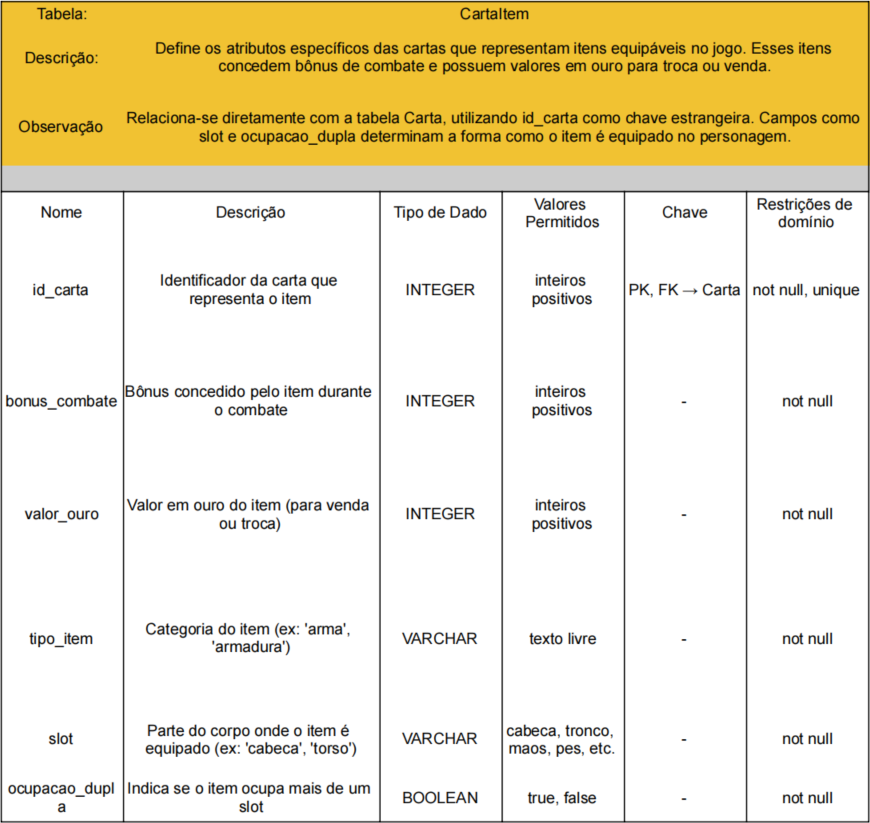
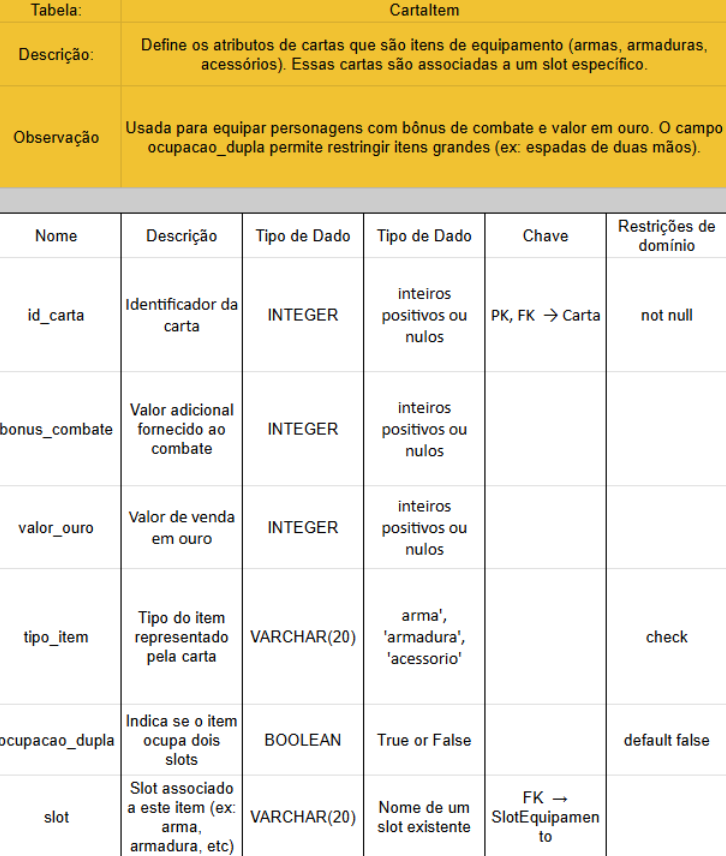
feat: novas correções no dicionário

diff --git a/docs/modulo01/dicionario.md b/docs/modulo01/dicionario.md
@@ -38,6 +38,9 @@ A seguir, cada entidade será documentada em uma tabela com suas respectivas car
 ### Tabela: **Carta**
 ![Tabela Carta](../assets/Carta.png)
 
+### Tabela: **SlotEquipamento**
+![Tabela Combate](../assets/SlotEquipamento.png)
+
 ### Tabela: **CartaPartida**
 ![Tabela CartaPartida](../assets/CartaPartida.png)
 
@@ -107,10 +110,12 @@ A seguir, cada entidade será documentada em uma tabela com suas respectivas car
 ### Tabela: **Combate**
 ![Tabela Combate](../assets/Combate.png)
 
+
+
 ## Histórico de Versão
 
 | Data       | Descrição                              | Autor                                                                 |
 |------------|----------------------------------------|-----------------------------------------------------------------------|
 | 25/04/2025 | Criação do artefato                    | [Breno Fernandes](https://github.com/Brenofrds)                      |
-| 02/05/2025 | Colaboração na construção do dicionário de dados |[Breno Fernandes](https://github.com/Brenofrds),[Maria Clara Sena](https://github.com/mclarasena), [Ana Luiza](https://github.com/luluaroeira), [Mylena Mendonça](https://github.com/MylenaTrindade) |
-| 11/06/2025 | Correções  do dicionário                | [Maria Clara](https://github.com/mclarasena), [Mylena Mendonça](https://github.com/MylenaTrindade) 
+| 02/05/2025 | Colaboração na construção do dicionário de dados |[Breno Fernandes](https://github.com/Brenofrds),[Maria Clara Sena](https://github.com/mclarasenaa), [Ana Luiza](https://github.com/luluaroeira), [Mylena Mendonça](https://github.com/MylenaTrindade) |
+| 11/06/2025 | Correções  do dicionário                | [Maria Clara](https://github.com/mclarasenaa), [Mylena Mendonça](https://github.com/MylenaTrindade) 
